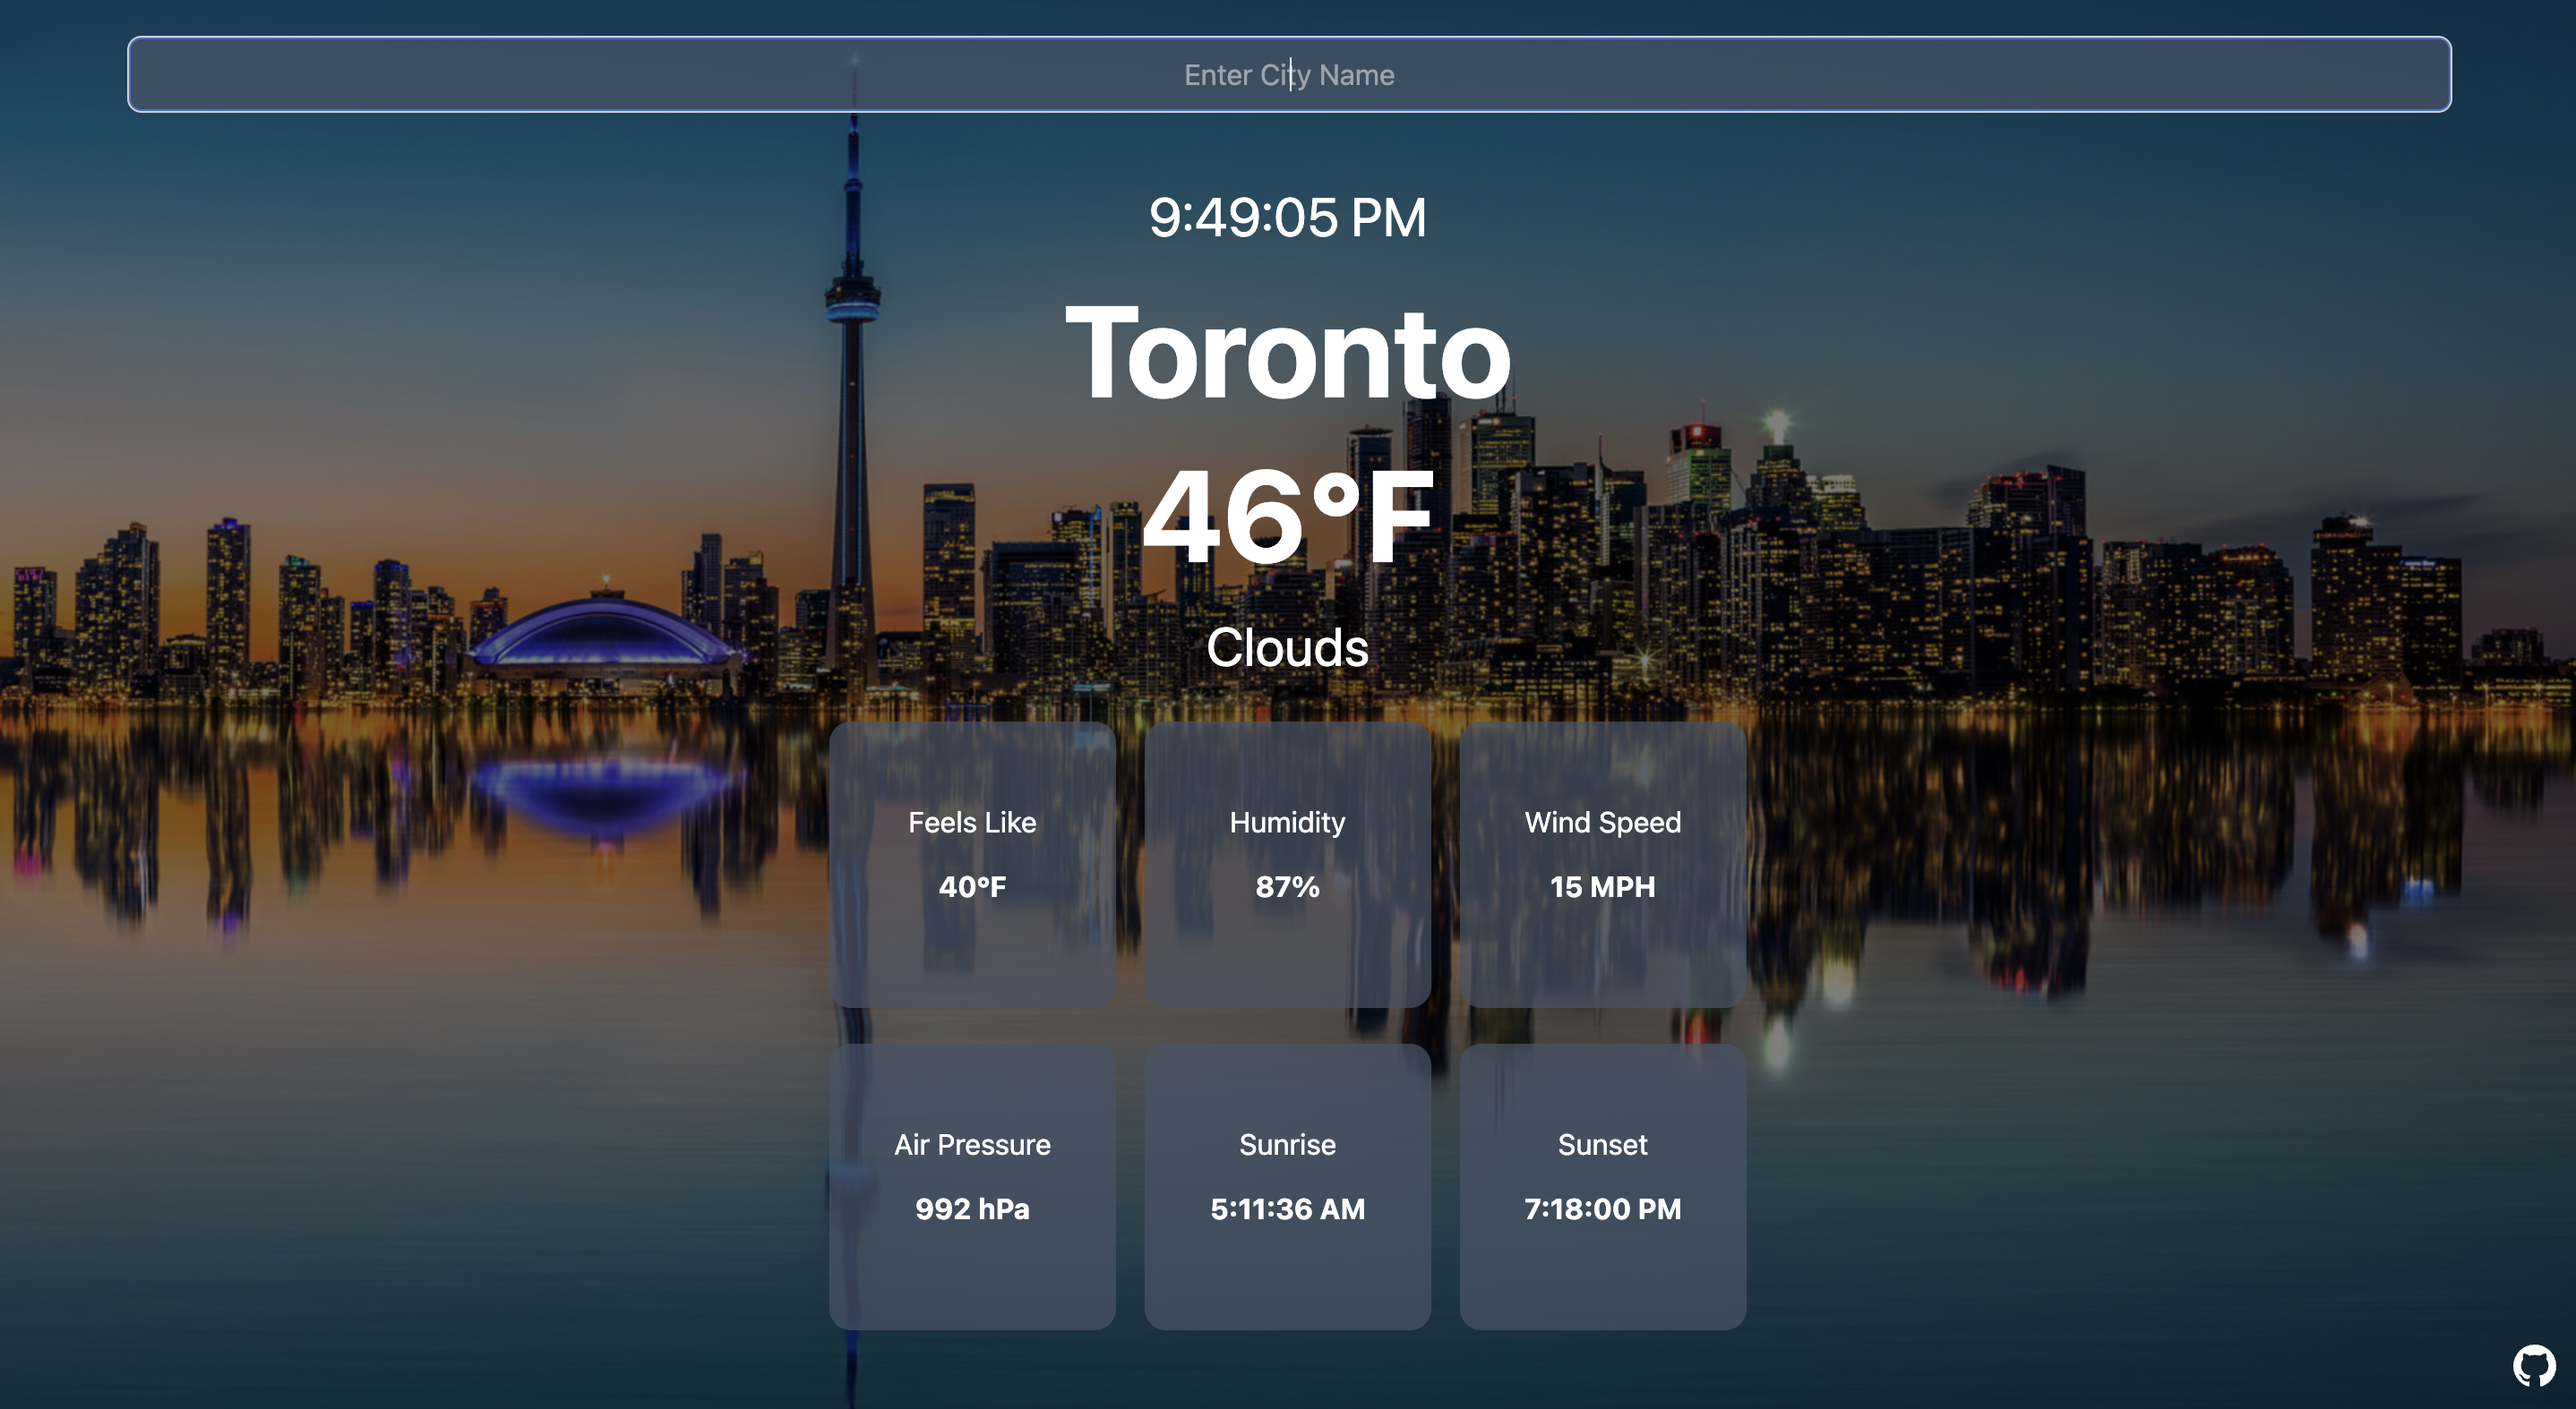
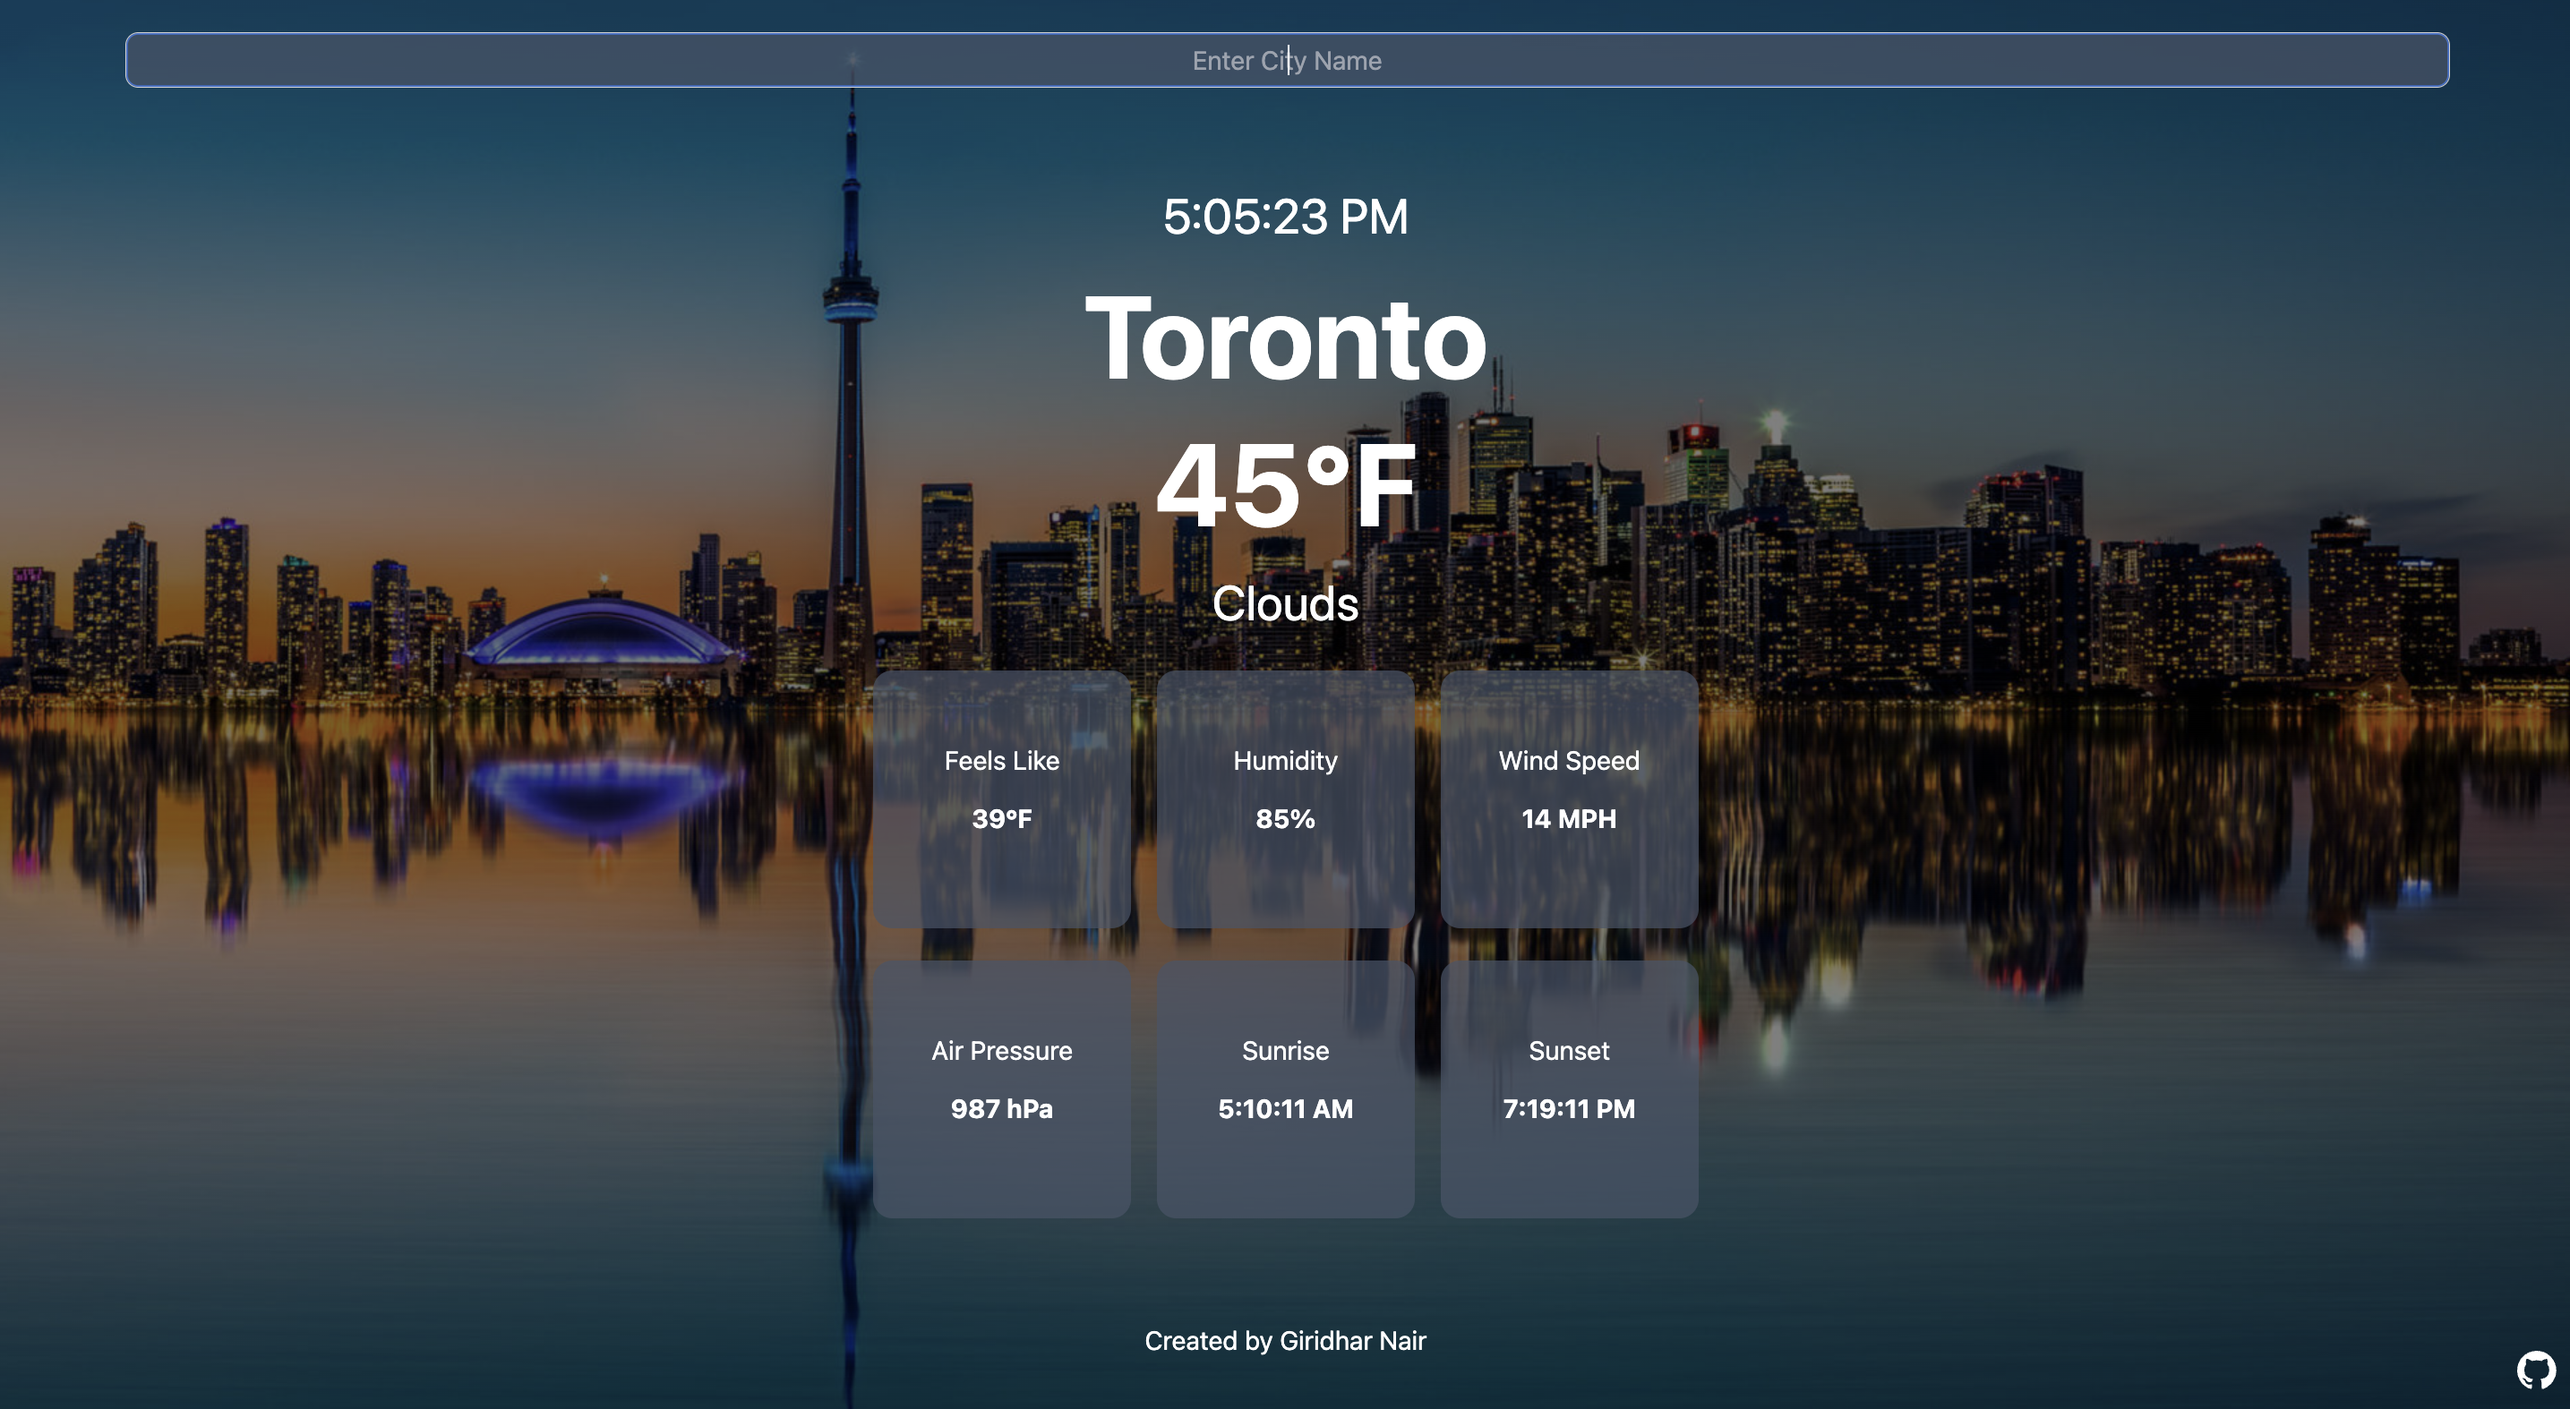
Added footer

diff --git a/src/App.jsx b/src/App.jsx
@@ -41,7 +41,6 @@ function App() {
     }
   }
   
-
   function getSunriseSunsetTime () {
     fetch(weatherUrl)
     .then((response) => response.json())
@@ -76,7 +75,7 @@ function App() {
   
   return (
     <div className='overflow-auto scrollbar-hide app flex flex-col py-5 h-screen items-center'>
-      <div className="relative flex w-[90vw] h-[3vw] flex-wrap items-stretch">
+      <div className="relative flex w-[90vw] h-3 flex-wrap items-stretch">
         <input
           title="Searchbar"
           type="text"
@@ -86,7 +85,7 @@ function App() {
           onChange={event => setLocation(event.target.value)}
           onKeyDown={searchLocation} />
       </div>
-      <div className='flex pt-5 flex-col items-center'>
+      <div className='flex pt-16 flex-col items-center'>
       {data.name ? 
         <>
           <LocationClock lat={data.coord.lat} lon={data.coord.lon} /> 
@@ -127,6 +126,9 @@ function App() {
           </button>
         </a>
       </div>  
+      <footer className='pt-16'>
+        Created by Giridhar Nair
+      </footer>
     </div>
   )
 }

diff --git a/README.md b/README.md
@@ -1,17 +1,10 @@
 # Weather-App
 
-<img width='600' src="./public/UserInterface.png"/>
+<img width='460' src="./public/UserInterface.png"/>
 <img width='200' src="./public/MobileUserInterface.gif"/>
 
 ## Introduction
-This is a simple weather application created using Vite + React, Tailwind CSS, Google Image Search API, and OpenWeatherMap API. </br>
-
-## Technologies </br>
-Vite </br>
-React </br>
-Tailwind CSS </br>
-Google Image Search API </br>
-OpenWeatherMap API </br>
+This is a simple responsive weather application created using Vite + React, Tailwind CSS, Google Image Search API, and OpenWeatherMap API. </br>
 
 ## Run Locally
 Clone the project
